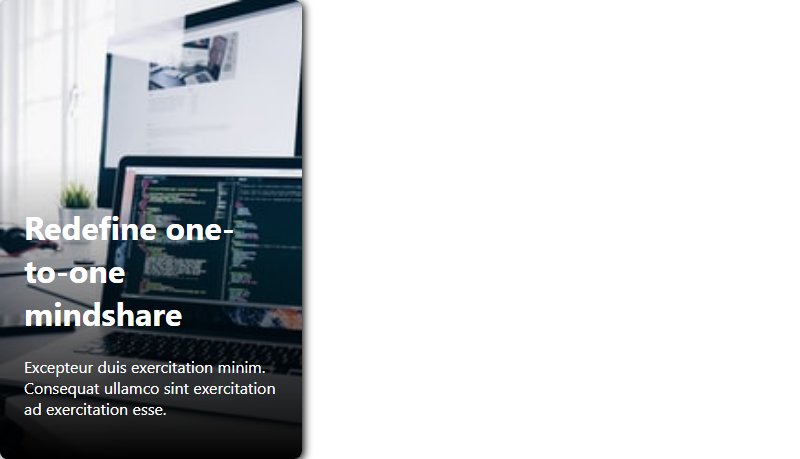
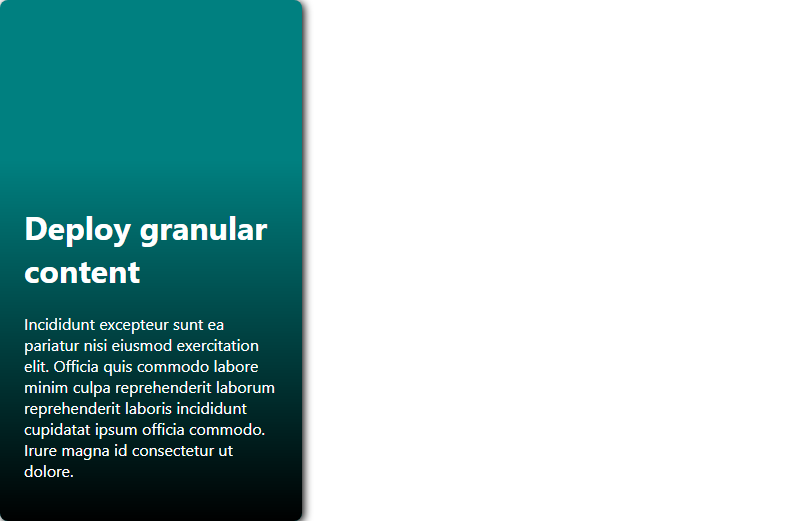
resolved issue preventing projectCards from displaying - needed to select correct array element and then pass to SliceZone. Next issue is resolving linking between projectCards and pages. LinkResolver may be at fault...

diff --git a/pages/index.tsx b/pages/index.tsx
@@ -1,37 +1,40 @@
-import type { NextPage } from 'next'
-import Link from 'next/link';
+import { createClient } from "../prismicio";
+import Link from "next/link";
 import Image from "next/image";
-import styles from '../styles/Home.module.css';
-import placeholder from '../public/aquarium_current.jpg';
-import ProjectCard from '../components/ProjectCard-demo';
+import styles from "../styles/Home.module.css";
+import placeholder from "../public/aquarium_current.jpg";
+import { SliceZone } from "@prismicio/react";
+import { components } from "../slices";
+import { GetStaticProps } from "next";
+import { PrismicDocument } from "@prismicio/types";
+import { FC } from "react";
 
-const DummyData = [
-  {
-    imageUrl: "https://images.unsplash.com/photo-1514888286974-6c03e2ca1dba?ixlib=rb-1.2.1&ixid=MnwxMjA3fDB8MHxwaG90by1wYWdlfHx8fGVufDB8fHx8&auto=format&fit=crop&w=1143&q=80"
-  },
-  {
-    imageUrl: "https://images.unsplash.com/photo-1514888286974-6c03e2ca1dba?ixlib=rb-1.2.1&ixid=MnwxMjA3fDB8MHxwaG90by1wYWdlfHx8fGVufDB8fHx8&auto=format&fit=crop&w=1143&q=80"
-  },
-  {
-    imageUrl: "https://images.unsplash.com/photo-1514888286974-6c03e2ca1dba?ixlib=rb-1.2.1&ixid=MnwxMjA3fDB8MHxwaG90by1wYWdlfHx8fGVufDB8fHx8&auto=format&fit=crop&w=1143&q=80"
-  },
-  {
-    imageUrl: "https://images.unsplash.com/photo-1514888286974-6c03e2ca1dba?ixlib=rb-1.2.1&ixid=MnwxMjA3fDB8MHxwaG90by1wYWdlfHx8fGVufDB8fHx8&auto=format&fit=crop&w=1143&q=80"
-  },
-  {
-    imageUrl: "https://images.unsplash.com/photo-1514888286974-6c03e2ca1dba?ixlib=rb-1.2.1&ixid=MnwxMjA3fDB8MHxwaG90by1wYWdlfHx8fGVufDB8fHx8&auto=format&fit=crop&w=1143&q=80"
-  },
-  {
-    imageUrl: "https://images.unsplash.com/photo-1514888286974-6c03e2ca1dba?ixlib=rb-1.2.1&ixid=MnwxMjA3fDB8MHxwaG90by1wYWdlfHx8fGVufDB8fHx8&auto=format&fit=crop&w=1143&q=80"
-  }
-]
+export const getStaticProps: GetStaticProps = async ({ previewData }) => {
+  const client = createClient({ previewData });
+  const projectCards = await client
+    .getAllByType("ProjectCard")
+    .catch((error) => console.error(error));
+  return {
+    props: {
+      projectCards,
+    },
+  };
+};
 
-const Home: NextPage = () => {
+interface HomeProps {
+  projectCards: PrismicDocument[]
+}
+
+const Home: FC<HomeProps> = (props) => {
   return (
     <main>
       {/* hero section */}
       <section role={"heroSection"}>
-        <div title='hero image' style={{ backgroundImage: `url(${placeholder.src})` }} className={styles.heroImageDiv}>
+        <div
+          title="hero image"
+          style={{ backgroundImage: `url(${placeholder.src})` }}
+          className={styles.heroImageDiv}
+        >
           <div className={styles.heroImageTitleWrapper}>
             <h2>Hero Image Title</h2>
             <a href="#projects">See my work</a>
@@ -44,26 +47,53 @@ const Home: NextPage = () => {
         </div>
         <div className={styles.aboutSectionContentWrapper}>
           <div className={styles.aboutSectionContent}>
-            <p>Lorem ipsum dolor sit amet, consectetur adipisicing elit. Accusamus pariatur amet doloremque eaque quaerat optio quibusdam, obcaecati laborum reiciendis quas et repellendus voluptatibus aperiam repellat libero, facilis quia reprehenderit. Omnis?</p>
-            <p>Lorem ipsum dolor sit amet, consectetur adipisicing elit. Accusamus pariatur amet doloremque eaque quaerat optio quibusdam, obcaecati laborum reiciendis quas et repellendus voluptatibus aperiam repellat libero, facilis quia reprehenderit. Omnis?</p>
-            <p>Lorem ipsum dolor sit amet, consectetur adipisicing elit. Accusamus pariatur amet doloremque eaque quaerat optio quibusdam, obcaecati laborum reiciendis quas et repellendus voluptatibus aperiam repellat libero, facilis quia reprehenderit. Omnis?</p>
+            <p>
+              Lorem ipsum dolor sit amet, consectetur adipisicing elit.
+              Accusamus pariatur amet doloremque eaque quaerat optio quibusdam,
+              obcaecati laborum reiciendis quas et repellendus voluptatibus
+              aperiam repellat libero, facilis quia reprehenderit. Omnis?
+            </p>
+            <p>
+              Lorem ipsum dolor sit amet, consectetur adipisicing elit.
+              Accusamus pariatur amet doloremque eaque quaerat optio quibusdam,
+              obcaecati laborum reiciendis quas et repellendus voluptatibus
+              aperiam repellat libero, facilis quia reprehenderit. Omnis?
+            </p>
+            <p>
+              Lorem ipsum dolor sit amet, consectetur adipisicing elit.
+              Accusamus pariatur amet doloremque eaque quaerat optio quibusdam,
+              obcaecati laborum reiciendis quas et repellendus voluptatibus
+              aperiam repellat libero, facilis quia reprehenderit. Omnis?
+            </p>
           </div>
           <div className={styles.aboutSectionContentImageWrapper}>
-            <Image src={placeholder} height={250} width={250} alt={"About Image placeholder"}></Image>
+            <Image
+              src={placeholder}
+              height={250}
+              width={250}
+              alt={"About Image placeholder"}
+            ></Image>
           </div>
         </div>
         <div className={styles.aboutSectionResumeLinkWrapper}>
           <Link href="/resume">See my Resume</Link>
         </div>
       </section>
-      <section role={"projectSection"} id="projects" className={styles.projectsSectionWrapper}>
+      <section
+        role={"projectSection"}
+        id="projects"
+        className={styles.projectsSectionWrapper}
+      >
         <h2>Selected Works</h2>
         <div className={styles.projectsGrid}>
-          {DummyData.map((data) => <ProjectCard key={Math.random()} imageUrl={data.imageUrl} />)}
+          <SliceZone
+            slices={props.projectCards[0].data.slices}
+            components={components}
+          />
         </div>
       </section>
     </main>
-  )
-}
+  );
+};
 
-export default Home
+export default Home;

diff --git a/.slicemachine/assets/slices/ProjectCard/index.stories.js b/.slicemachine/assets/slices/ProjectCard/index.stories.js
@@ -5,5 +5,5 @@ export default {
 }
 
 
-export const _DefaultSlice = () => <MyComponent slice={{"variation":"default-slice","name":"Default slice","slice_type":"project_card","items":[],"primary":{"title":[{"type":"heading1","text":"Redefine one-to-one mindshare","spans":[]}],"projectCardDescription":[{"type":"paragraph","text":"Excepteur duis exercitation minim. Consequat ullamco sint exercitation ad exercitation esse.","spans":[]}],"projectImage":{"dimensions":{"width":250,"height":250},"alt":"Placeholder image","copyright":null,"url":"https://images.unsplash.com/photo-1498050108023-c5249f4df085?w=250&h=250&fit=crop"},"project":{"link_type":"Web","url":"http://twitter.com"},"isFeaturedProject":true},"id":"_DefaultSlice"}} />
+export const _DefaultSlice = () => <MyComponent slice={{"variation":"default-slice","name":"Default slice","slice_type":"project_card","items":[],"primary":{"title":[{"type":"heading1","text":"Deploy granular content","spans":[]}],"projectCardDescription":[{"type":"paragraph","text":"Incididunt excepteur sunt ea pariatur nisi eiusmod exercitation elit. Officia quis commodo labore minim culpa reprehenderit laborum reprehenderit laboris incididunt cupidatat ipsum officia commodo. Irure magna id consectetur ut dolore.","spans":[]}],"projectImage":{"dimensions":{"width":250,"height":250},"alt":"Placeholder image","copyright":null,"url":"https://images.unsplash.com/photo-1606248897732-2c5ffe759c04?w=250&h=250&fit=crop"},"project":{"link_type":"Web","url":"https://slicemachine.dev"}},"id":"_DefaultSlice"}} />
 _DefaultSlice.storyName = 'Default slice'

diff --git a/pages/_app.tsx b/pages/_app.tsx
@@ -3,12 +3,27 @@ import type { AppProps } from 'next/app'
 import Header from '../components/Header'
 import Footer from '../components/Footer'
 
+import { PrismicProvider } from '@prismicio/react'
+import { PrismicPreview } from '@prismicio/next';
+import { linkResolver, repositoryName } from '../prismicio';
+import Link from 'next/link'
+
+
 function MyApp({ Component, pageProps }: AppProps) {
-  return <body>
-    <Header />
-    <Component {...pageProps} />
-    <Footer />
-  </body>
+  return <PrismicProvider linkResolver={linkResolver}
+    internalLinkComponent={({ href, children, ...props }) => (
+      <Link href={href}>
+        <a {...props}>
+          {children}
+        </a>
+      </Link>
+    )}>
+    <PrismicPreview repositoryName={repositoryName}>
+      <Header />
+      <Component {...pageProps} />
+      <Footer />
+    </PrismicPreview>
+  </PrismicProvider>
 }
 
 export default MyApp

diff --git a/prismicio.js b/prismicio.js
@@ -7,23 +7,25 @@ export const repositoryName = prismic.getRepositoryName(endpoint);
 
 // Update the Link Resolver to match your project's route structure
 export function linkResolver(doc) {
-  if (doc.type === "ProjectPage") {
-    return `/projects/${doc.uid}`;
+  switch (doc.type) {
+    case "projectpage":
+      return `projects/${doc.uid}`;
+    default:
+      return "/";
   }
-  return "/";
 }
 
 // This factory function allows smooth preview setup
 export function createClient(config = {}) {
   const client = prismic.createClient(endpoint, {
     ...config,
-  })
+  });
 
   enableAutoPreviews({
     client,
     previewData: config.previewData,
     req: config.req,
-  })
+  });
 
-  return client
+  return client;
 }

diff --git a/slices/ProjectCard/index.js b/slices/ProjectCard/index.js
@@ -4,7 +4,7 @@ import { Link } from "prismic-reactjs";
 import styles from "./styles.module.css";
 
 const ProjectCard = ({ slice }) => (
-  <a href={Link.url(slice.primary.project)} passHref>
+  <a href={Link.url(slice.primary.project)}>
     <div
       className={styles.projectCard}
       style={{ backgroundImage: `url(${slice.primary.projectImage.url})` }}
